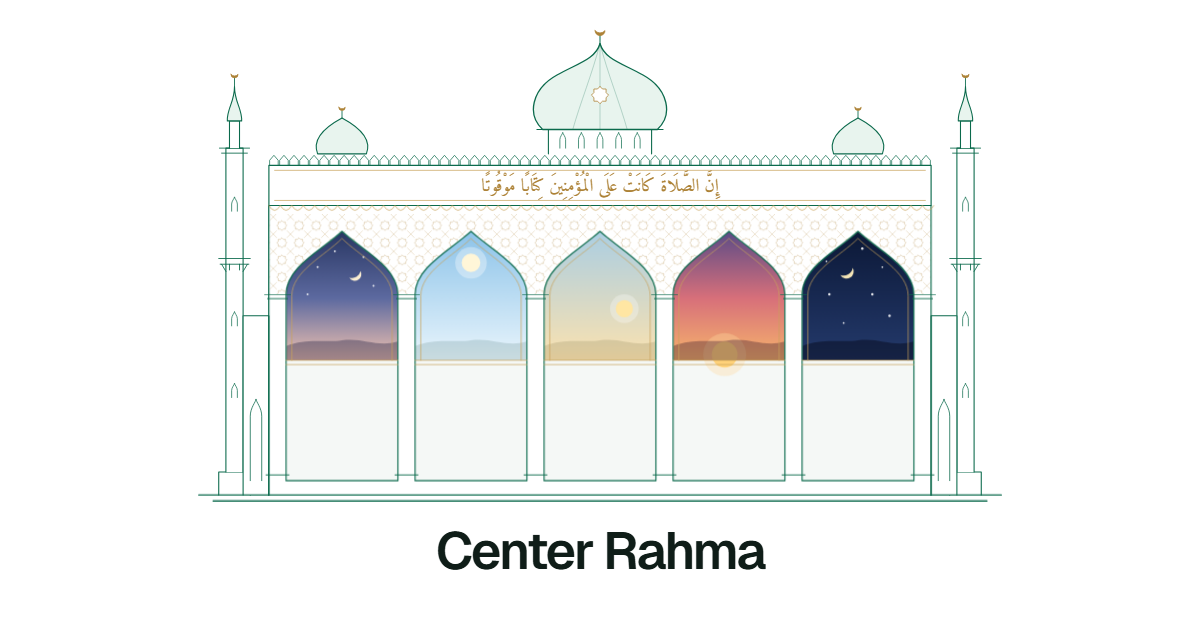
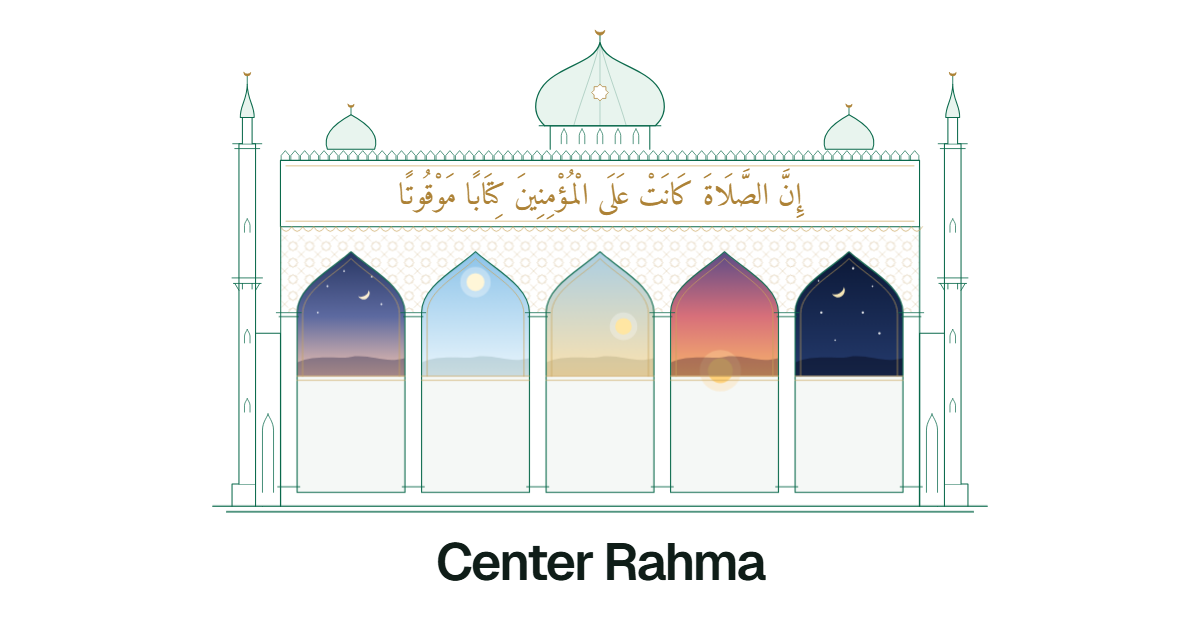
feat: raise the mosque's roof so the verse can be read
The band with Quran 4:103 grows from 56 to 96 units and the verse from
25 to 44, about 14px on a 390px phone (was 8px) and 38px on desktop.
The domes, battlements and minaret tops move up 40 with the roof; the
drawing's grid becomes 1200 x 700 (y from -120), and the overlay
positions, aspect ratio and fit-the-fold width follow. The link preview
image is rendered again from the new drawing.

diff --git a/src/components/forside/FemHimler.tsx b/src/components/forside/FemHimler.tsx
@@ -7,7 +7,7 @@ import { DownloadIcon } from './icons';
 import { YEAR_PDF } from './links';
 import s from './forside.module.css';
 
-/* The mosque front, drawn on a 1200 × 660 grid (y runs from -80). Each of the five
+/* The mosque front, drawn on a 1200 × 700 grid (y runs from -120); the roof is raised so the verse can be read on a phone. Each of the five
    arches holds the sky of one prayer: dawn, high sun, low sun, sunset, night. */
 
 const SKIES = [
@@ -59,30 +59,30 @@ function Facade({ next, past }: { next: number | null; past: boolean[] }) {
     );
 
   // dome and drum
-  line('M528,104 V70 H672 V104', { fill: '#fff' });
-  [548, 574, 600, 626, 652].forEach((c) => line(`M${c - 4},96 V84 C${c - 4},80 ${c},76 ${c},74 C${c},76 ${c + 4},80 ${c + 4},84 V96`, { w: 1 }));
-  line('M520,70 C498,50 504,14 540,-6 C568,-22 594,-28 600,-50 C606,-28 632,-22 660,-6 C696,14 702,50 680,70 Z', { fill: 'var(--mint)', w: 1.8 });
-  line('M600,-50 C590,-10 572,34 562,70 M600,-50 C610,-10 628,34 638,70 M600,-50 V70', { w: 1, op: 0.35 });
-  line('M512,70 H688', { w: 1.5 });
-  line('M600,-50 V-62', { w: 1.4 });
-  line(crescent(600, -68, 7), { fill: 'var(--gold)', stroke: 'var(--gold)', w: 1 });
-  line(star(600, 22, 12), { stroke: 'var(--gold)', fill: '#fff', w: 1.1 });
+  line('M528,64 V30 H672 V64', { fill: '#fff' });
+  [548, 574, 600, 626, 652].forEach((c) => line(`M${c - 4},56 V44 C${c - 4},40 ${c},36 ${c},34 C${c},36 ${c + 4},40 ${c + 4},44 V56`, { w: 1 }));
+  line('M520,30 C498,10 504,-26 540,-46 C568,-62 594,-68 600,-90 C606,-68 632,-62 660,-46 C696,-26 702,10 680,30 Z', { fill: 'var(--mint)', w: 1.8 });
+  line('M600,-90 C590,-50 572,-6 562,30 M600,-90 C610,-50 628,-6 638,30 M600,-90 V30', { w: 1, op: 0.35 });
+  line('M512,30 H688', { w: 1.5 });
+  line('M600,-90 V-102', { w: 1.4 });
+  line(crescent(600, -108, 7), { fill: 'var(--gold)', stroke: 'var(--gold)', w: 1 });
+  line(star(600, -18, 12), { stroke: 'var(--gold)', fill: '#fff', w: 1.1 });
   // side domes
   [240, 960].forEach((c) => {
-    line(`M${c - 34},104 C${c - 42},84 ${c - 26},68 ${c},54 C${c + 26},68 ${c + 42},84 ${c + 34},104 Z`, { fill: 'var(--mint)' });
-    line(`M${c},54 V44`, { w: 1.2 });
-    line(crescent(c, 39, 4.5), { fill: 'var(--gold)', stroke: 'var(--gold)', w: 1 });
+    line(`M${c - 34},64 C${c - 42},44 ${c - 26},28 ${c},14 C${c + 26},28 ${c + 42},44 ${c + 34},64 Z`, { fill: 'var(--mint)' });
+    line(`M${c},14 V4`, { w: 1.2 });
+    line(crescent(c, -1, 4.5), { fill: 'var(--gold)', stroke: 'var(--gold)', w: 1 });
   });
   // minarets, each tied to the arcade by a wall
   [90, 1110].forEach((x) => {
     line(`M${x - 22},580 V548 H${x + 22} V580`, { fill: '#fff' });
-    line(`M${x - 12},548 V96 H${x + 12} V548`, { fill: '#fff' });
+    line(`M${x - 12},548 V56 H${x + 12} V548`, { fill: '#fff' });
     line(`M${x - 22},250 H${x + 22} M${x - 20},258 H${x + 20} M${x - 18},258 L${x - 12},268 M${x + 18},258 L${x + 12},268 M${x - 7},258 V266 M${x + 7},258 V266`, { w: 1.2 });
-    line(`M${x - 21},96 H${x + 21} M${x - 18},103 H${x + 18}`, { w: 1.2 });
-    line(`M${x - 7},96 V58 H${x + 7} V96`, { fill: '#fff' });
-    line(`M${x - 10},58 C${x - 11},42 ${x},32 ${x},10 C${x},32 ${x + 11},42 ${x + 10},58 Z`, { fill: 'var(--mint)' });
-    line(`M${x},10 V-2`, { w: 1.2 });
-    line(crescent(x, -7, 5), { fill: 'var(--gold)', stroke: 'var(--gold)', w: 1 });
+    line(`M${x - 21},56 H${x + 21} M${x - 18},63 H${x + 18}`, { w: 1.2 });
+    line(`M${x - 7},56 V18 H${x + 7} V56`, { fill: '#fff' });
+    line(`M${x - 10},18 C${x - 11},2 ${x},-8 ${x},-30 C${x},-8 ${x + 11},2 ${x + 10},18 Z`, { fill: 'var(--mint)' });
+    line(`M${x},-30 V-42`, { w: 1.2 });
+    line(crescent(x, -47, 5), { fill: 'var(--gold)', stroke: 'var(--gold)', w: 1 });
     [170, 330, 430].forEach((y) => line(`M${x - 4},${y + 14} V${y + 4} C${x - 4},${y} ${x},${y - 4} ${x},${y - 6} C${x},${y - 4} ${x + 4},${y} ${x + 4},${y + 4} V${y + 14}`, { w: 1 }));
     const a = x < 600 ? x + 12 : 1062;
     const b = x < 600 ? 138 : x - 12;
@@ -92,12 +92,12 @@ function Facade({ next, past }: { next: number | null; past: boolean[] }) {
   });
   // crenellation, frieze with the verse, lattice in the spandrels, muqarnas
   let cren = '';
-  for (let x = 138; x < 1062; x += 14) cren += `M${x + 1},120 V113 L${x + 7},106 L${x + 13},113 V120 `;
+  for (let x = 138; x < 1062; x += 14) cren += `M${x + 1},80 V73 L${x + 7},66 L${x + 13},73 V80 `;
   line(cren, { w: 1 });
-  line('M138,120 H1062 V176 H138 Z', { fill: '#fff', w: 1.6 });
-  line('M146,127 H1054 M146,169 H1054', { stroke: 'var(--gold-2)', w: 1 });
+  line('M138,80 H1062 V176 H138 Z', { fill: '#fff', w: 1.6 });
+  line('M146,88 H1054 M146,168 H1054', { stroke: 'var(--gold-2)', w: 1 });
   out.push(
-    <text key={out.length} x={600} y={156} textAnchor="middle" fontSize={25} fill="var(--gold)" direction="rtl" lang="ar" className={s.fade} style={delay(1.1)}>
+    <text key={out.length} x={600} y={143} textAnchor="middle" fontSize={44} fill="var(--gold)" direction="rtl" lang="ar" className={s.fade} style={delay(1.1)}>
       إِنَّ الصَّلَاةَ كَانَتْ عَلَى الْمُؤْمِنِينَ كِتَابًا مَوْقُوتًا
     </text>,
   );
@@ -168,7 +168,7 @@ function Facade({ next, past }: { next: number | null; past: boolean[] }) {
   line('M40,580 H1160 M60,588 H1140', { w: 1.6 });
 
   return (
-    <svg viewBox="0 -80 1200 660" role="img" aria-label="Moskeens fasade med fem buer. Hver bue viser himmelen ved en av dagens bønner.">
+    <svg viewBox="0 -120 1200 700" role="img" aria-label="Moskeens fasade med fem buer. Hver bue viser himmelen ved en av dagens bønner.">
       <defs>
         {SKIES.map((sky, i) => (
           <linearGradient key={i} id={`fh-sky${i}`} x1={0} y1={0} x2={0} y2={1}>
@@ -241,8 +241,8 @@ export default function FemHimler({ schedule, friday: renderedFriday }: Props) {
               style={{
                 left: pct(bayX(i) + 12, 1200),
                 width: pct(156, 1200),
-                top: pct(400, 660, 80),
-                height: pct(150, 660),
+                top: pct(400, 700, 120),
+                height: pct(150, 700),
                 ...delay((1.3 + i * 0.22).toFixed(2)),
               }}
             >
@@ -256,7 +256,7 @@ export default function FemHimler({ schedule, friday: renderedFriday }: Props) {
         {nx && (
           <span
             className={`${s.badge} ${badgeOn ? s.on : ''}`}
-            style={{ left: pct(bayX(nx.index) + 90, 1200), top: pct(204, 660, 80) }}
+            style={{ left: pct(bayX(nx.index) + 90, 1200), top: pct(204, 700, 120) }}
           >
             Neste, {nx.tomorrow ? 'i morgen om ' : 'om '}
             {until(nx.left)}

diff --git a/src/components/forside/forside.module.css b/src/components/forside/forside.module.css
@@ -25,7 +25,7 @@
 /* ── hero: Fem himler ── */
 .hero{padding:28px 0 0;overflow:hidden}
 /* the drawing gives way on short screens so the name and buttons stay above the fold */
-.facade{position:relative;width:min(1080px,max(760px,(100svh - 300px) * 1.818),100%);margin:0 auto;aspect-ratio:1200/660}
+.facade{position:relative;width:min(1080px,max(760px,(100svh - 300px) * 1.714),100%);margin:0 auto;aspect-ratio:1200/700}
 .facade > svg{position:absolute;inset:0;width:100%;height:100%;overflow:visible}
 .facade text{font-family:var(--font-amiri),serif}
 .bays{list-style:none;margin:0;padding:0}
